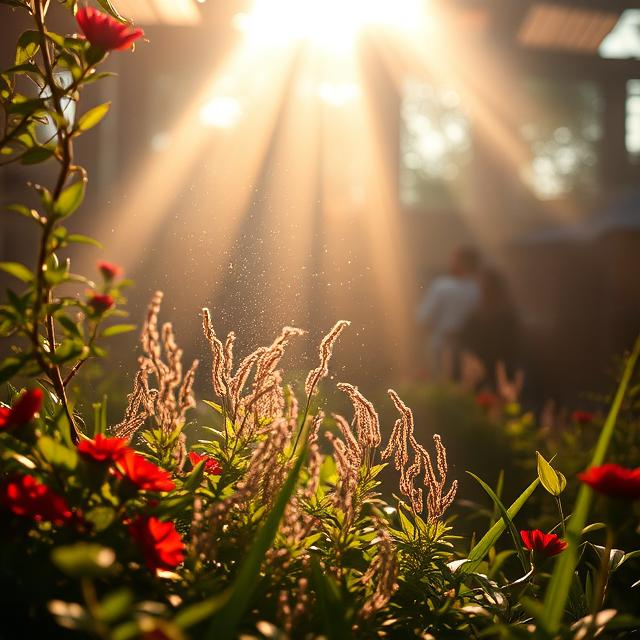
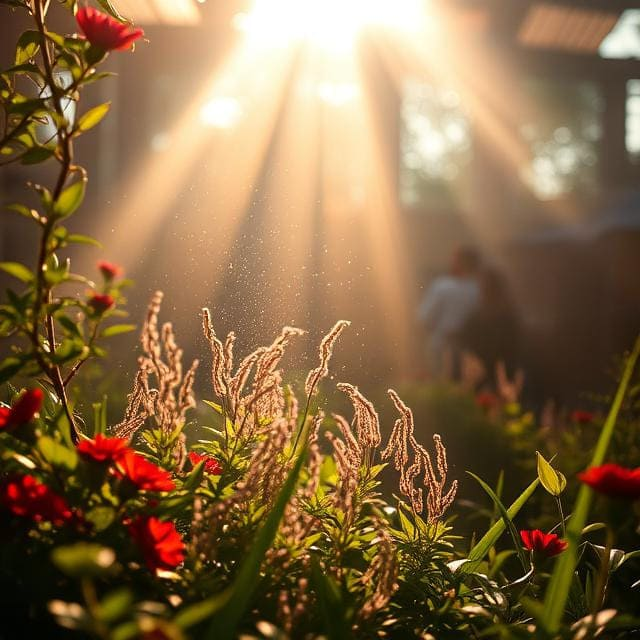
Image Slider Fixed and Images Compressed

diff --git a/app/src/main/java/com/talhaatif/tickojet/BookEventActivity.kt b/app/src/main/java/com/talhaatif/tickojet/BookEventActivity.kt
@@ -14,6 +14,7 @@ import com.talhaatif.tickojet.databinding.ActivityBookEventBinding
 import com.talhaatif.tickojet.viewmodel.EventViewModel
 import  com.talhaatif.tickojet.utils.Result
 import androidx.lifecycle.ViewModelProvider
+import com.bumptech.glide.Glide
 import com.talhaatif.tickojet.repository.EventRepository
 import com.talhaatif.tickojet.local.TokenManager
 import com.talhaatif.tickojet.viewmodel.factory.EventViewModelFactory
@@ -51,6 +52,10 @@ class BookEventActivity : AppCompatActivity() {
             startActivity(intent)
         }
 
+//        setupImageSlider()
+
+        setupImageSliderWithGlide()
+
     }
 
     private fun fetchEventDetails(eventId: String) {
@@ -69,7 +74,7 @@ class BookEventActivity : AppCompatActivity() {
                         val event = it.data
                         binding.tvEventName.text = event.title
                         binding.btnEventCategory.text = event.category
-                        binding.btnAddToCalendar.text = "Add ${event.title} to My Calendar"
+                        binding.btnAddToCalendar.text = "Add this to My Calendar"
                         binding.tvLocation.text = event.location
                         binding.tvFullLocation.text = event.location
 //                        binding.tvEventDescription.text = event.description
@@ -89,20 +94,32 @@ class BookEventActivity : AppCompatActivity() {
         // Trigger the actual fetch
         eventViewModel.getEventById(eventId)
     }
+
+
     private fun setupImageSliderWithGlide() {
-        val imageUrls = listOf(R.drawable.a1, R.drawable.a2, R.drawable.a3)
+        val imageResources = listOf(R.drawable.a1, R.drawable.a2, R.drawable.a3)
         val slideModels = ArrayList<SlideModel>()
 
-        imageUrls.forEach { imageRes ->
-            val slideModel = SlideModel(imageRes).apply {
-                scaleType = ScaleTypes.CENTER_CROP
-                imageUrl = imageRes.toString()
-            }
-            slideModels.add(slideModel)
+        imageResources.forEach { imageRes ->
+            // Pre-load with Glide (optional transformations)
+            Glide.with(this)
+                .load(imageRes)
+                .override(800, 800)  // Downscale if needed
+                .preload()  // Cache the image
+
+            // Add to slider
+            slideModels.add(
+                SlideModel(
+                    imageRes,  // Still pass the resource ID
+                    scaleType = ScaleTypes.CENTER_CROP
+                )
+            )
         }
 
         binding.imageSlider.setImageList(slideModels)
     }
+
+
 
     private fun setupImageSlider() {
         val imageList = listOf(

diff --git a/app/src/main/java/com/talhaatif/tickojet/adapter/BookingAdapter.kt b/app/src/main/java/com/talhaatif/tickojet/adapter/BookingAdapter.kt
@@ -14,6 +14,7 @@ import com.talhaatif.tickojet.R
 import com.talhaatif.tickojet.databinding.RvBookingBinding
 import com.talhaatif.tickojet.responseModel.BookingStatus
 import com.talhaatif.tickojet.utils.DateUtils
+import java.util.Random
 
 
 class BookingAdapter(
@@ -65,11 +66,10 @@ class BookingAdapter(
                 }
 
 
-                // Load event image
-                Glide.with(root.context)
-                    .load(R.drawable.a4
 
-                    )
+                val drawables = listOf(R.drawable.a4, R.drawable.a5, R.drawable.a6)
+                Glide.with(root.context)
+                    .load(drawables.random())
                     .placeholder(R.drawable.a1)
                     .into(ivEventIcon)
 
